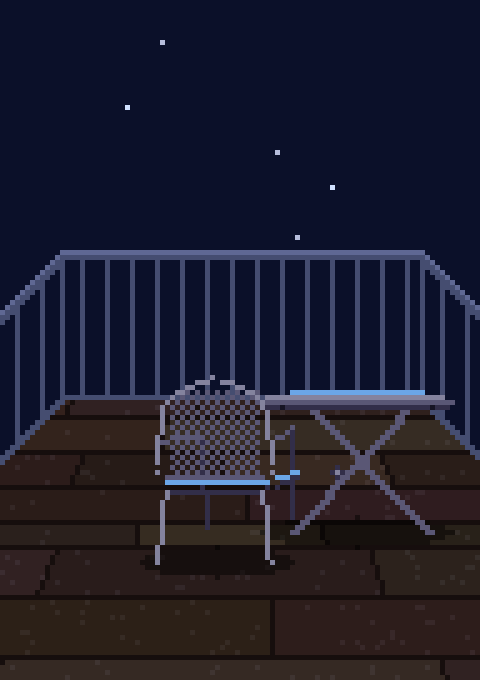
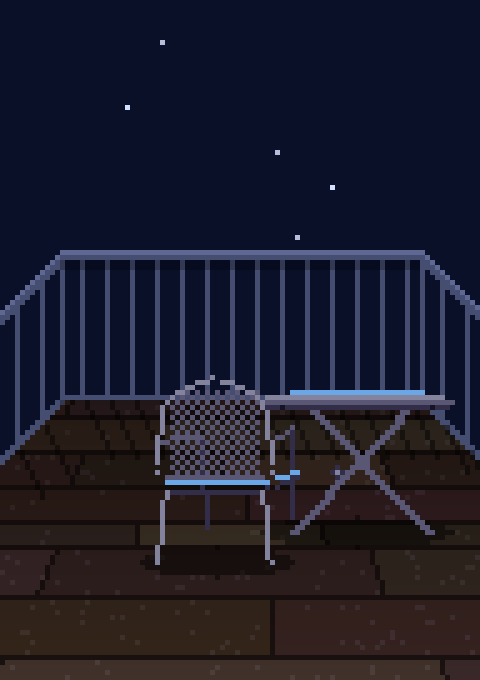
Balcony 2D: depth cues (floor gradient, rail shadows, AO under top rail)
Claude-Session: https://claude.ai/code/session_01FPZSaKiVNU2zED737yZX4w

diff --git a/tools/render_balcony2d.py b/tools/render_balcony2d.py
@@ -72,6 +72,24 @@ def main():
         for d in range(4, n, 5):
             xx = x0 + s * d
             for w in range(TW): seg((xx + w, top_y + d + ST), (xx + w, base_y + d - 1), MR)
+    # 입체감: 바닥 깊이 그라데이션(안쪽=어둡고 차갑게, 앞쪽=밝게), 철창이 바닥에 드리우는 그림자, 위쪽 가로대 아래 어두운 띠
+    def dark(x, y, f):
+        if 0 <= x < W and 0 <= y < H:
+            r_, g_, b_, a_ = px[x, y]; px[x, y] = (int(r_ * f), int(g_ * f), int(b_ * f), a_)
+    for y in range(base_y, H):
+        f = .72 + .5 * min(1, (y - base_y) / (H - base_y))
+        for x in range(W):
+            if y >= base_at(x) + (SB if (x < L or x > Rr) else TB): dark(x, y, f)
+    for x in range(L + 4, Rr, 5):                          # 가운데 창살 그림자(달빛이 왼쪽 위에서 비스듬히)
+        for k in range(12):
+            for w in range(TW): dark(x + w + k // 2 + 1, base_y + TB + k, .55)
+    for s_, x0, ex in ((-1, L, -1), (1, Rr, W)):          # 꺾인 부분 그림자
+        for d in range(4, abs(ex - x0), 5):
+            xx = x0 + s_ * d
+            for k in range(10):
+                for w in range(TW): dark(xx + w + k // 2 + 1, base_y + d + SB + k, .55)
+    for x in range(L, Rr):                                 # 위 가로대 바로 아래 어두운 띠(두께감)
+        for y in range(top_y + TT, top_y + TT + 2): dark(x, y, .75)
     # 쇠 의자와 탁자: 땅 위
     t = lib['iron_table']; c = lib['iron_chair']
     def shadow(cx, cy, rx, ry):                            # 발 밑 그림자(바닥에 닿아 보이게)
